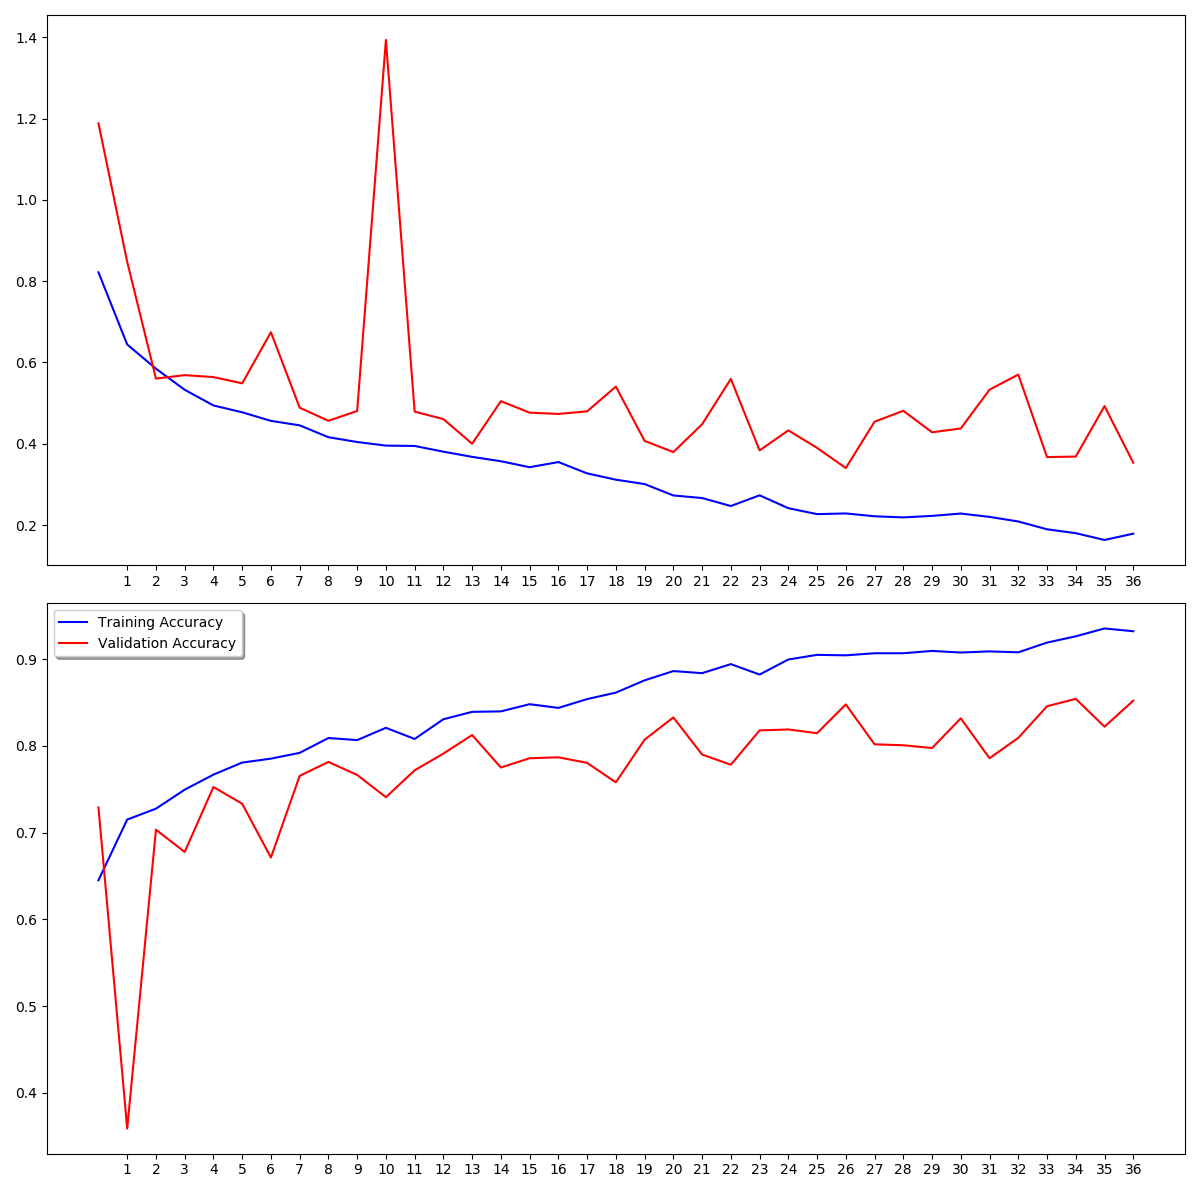
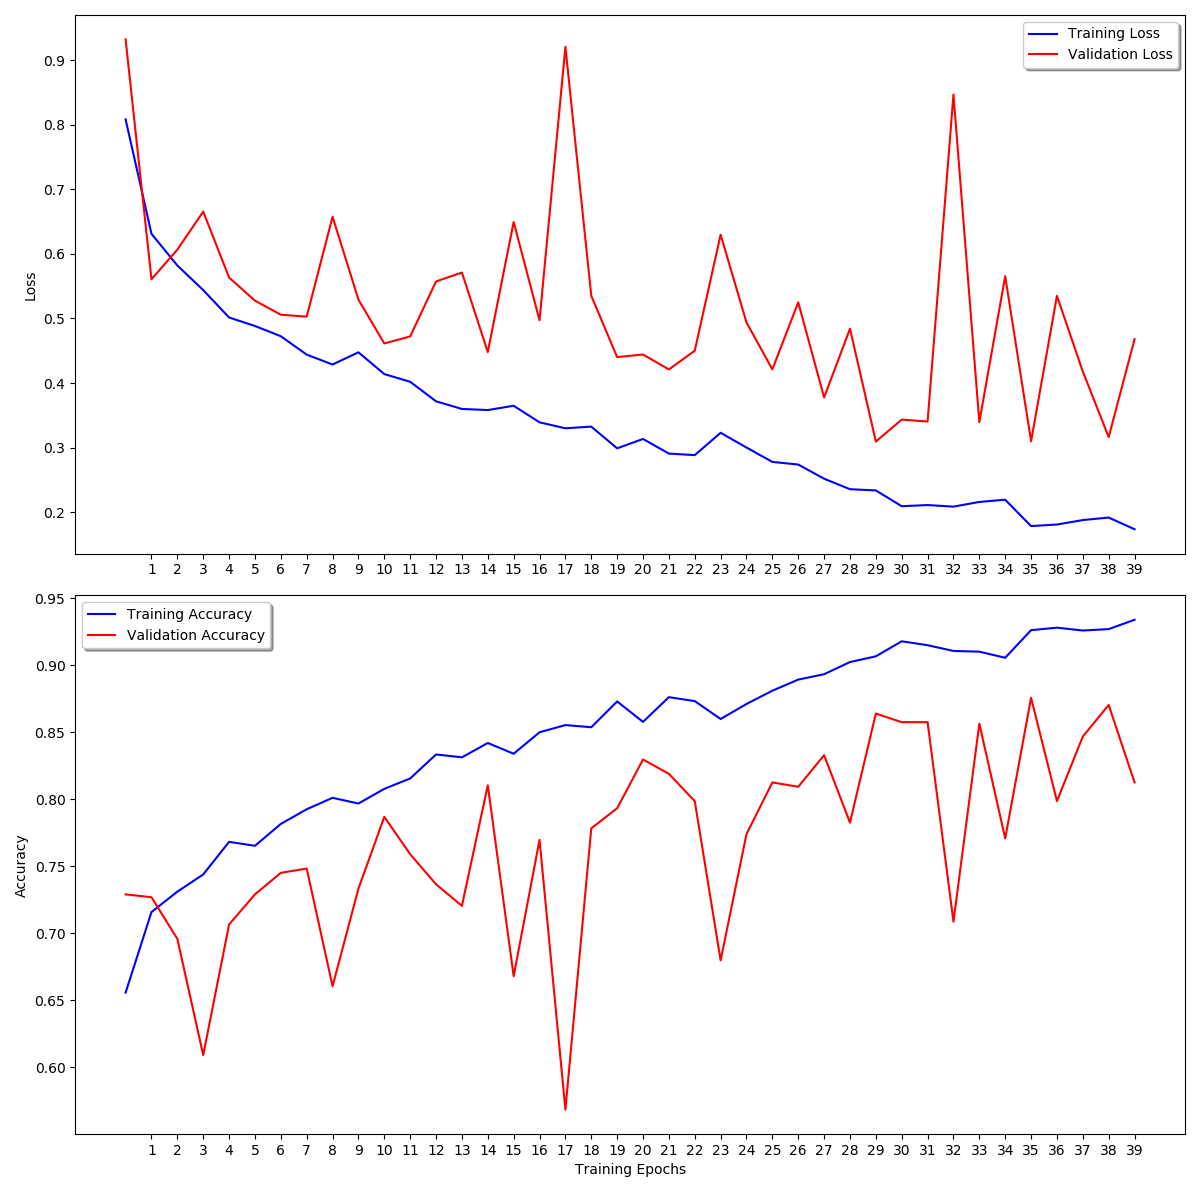
Updated script and plots
Attempt to add some reproducibility for the CNN generation and added some additional labels to the training history subplots

diff --git a/20180916_Dogs vs Cats - CNN.py b/20180916_Dogs vs Cats - CNN.py
@@ -36,6 +36,8 @@ from tensorflow.keras.callbacks import EarlyStopping, ReduceLROnPlateau
 from tensorflow.keras.models import model_from_json
 from tensorflow import metrics
 import sklearn.metrics
+import pandas as pd
+from tensorflow import set_random_seed
 from inspect import signature
 # warnings.resetwarnings()  # Reset warnings filter
 
@@ -53,8 +55,10 @@ RunDate = dt.datetime.now()
 os.environ['TF_CPP_MIN_LOG_LEVEL'] = '2'
 
 
-# Set random.seed
+# Set random.seed for tensorflow and numpy
 Random_Seed = 123
+set_random_seed(Random_Seed)
+np.random.seed(Random_Seed)
 
 
 #* Pick a random (sort of) sample dog picture and inspect
@@ -321,14 +325,13 @@ ax1.set_xticks(
         , 1
     )
 )
-# ax1.set_yticks(
-#     np.arange(
-#         0
-#         , 1
-#         , 0.1
-#     )
-# )
+ax1.set(ylabel='Loss')
+legend1 = ax1.legend(
+    loc='best'
+    , shadow=True
+)
 
+# Show second subplot
 ax2.plot(
     classifier.history.history['acc']
     , color='b'
@@ -346,10 +349,12 @@ ax2.set_xticks(
         , 1
     )
 )
-legend = plt.legend(
+legend2 = ax2.legend(
     loc='best'
     , shadow=True
 )
+ax2.set(ylabel='Accuracy')
+plt.xlabel('Training Epochs')
 plt.tight_layout()
 plt.show()
 
@@ -400,6 +405,21 @@ Test_Predict = classifier_model.predict_generator(
     , verbose=1
 )
 Test_Predict = Test_Predict.reshape(Test_Predict.size, )
+
+
+# Create panda dataframe from predictions and labels
+Predict_df = pd.DataFrame(
+    {'Actual':Testing_Set.labels
+     , 'Predict':Test_Predict}
+)
+
+Predict_df.to_csv(
+    path_or_buf=
+    str(
+        os.getcwd() +
+        '/Export_Predict_df.csv'
+    )
+)
 
 
 ##############################################################
@@ -473,4 +493,9 @@ plt.xlabel('Recall')
 plt.ylabel('Precision')
 plt.xlim([0.0, 1.0])
 plt.ylim([0.0, 1.05])
-plt.title('2-Class Precision-Recall Curve AP = 0.894')
+plt.title(
+    str(
+        '2-Class Precision-Recall Curve AP = ' +
+        str(round(Test_average_precision_recall, 3))
+        )
+)
